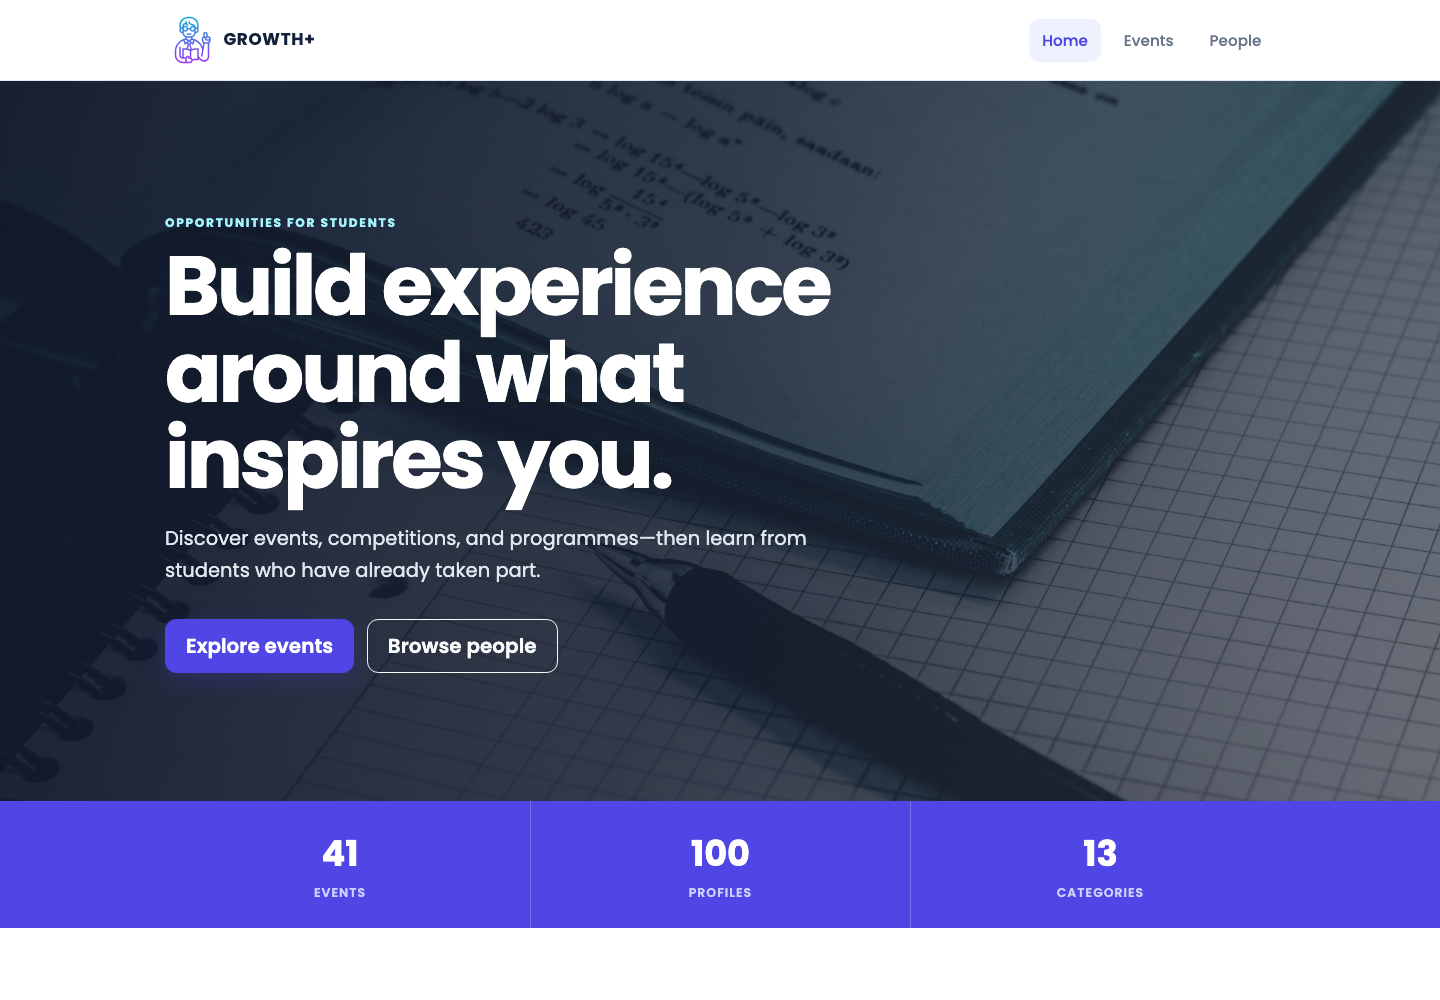
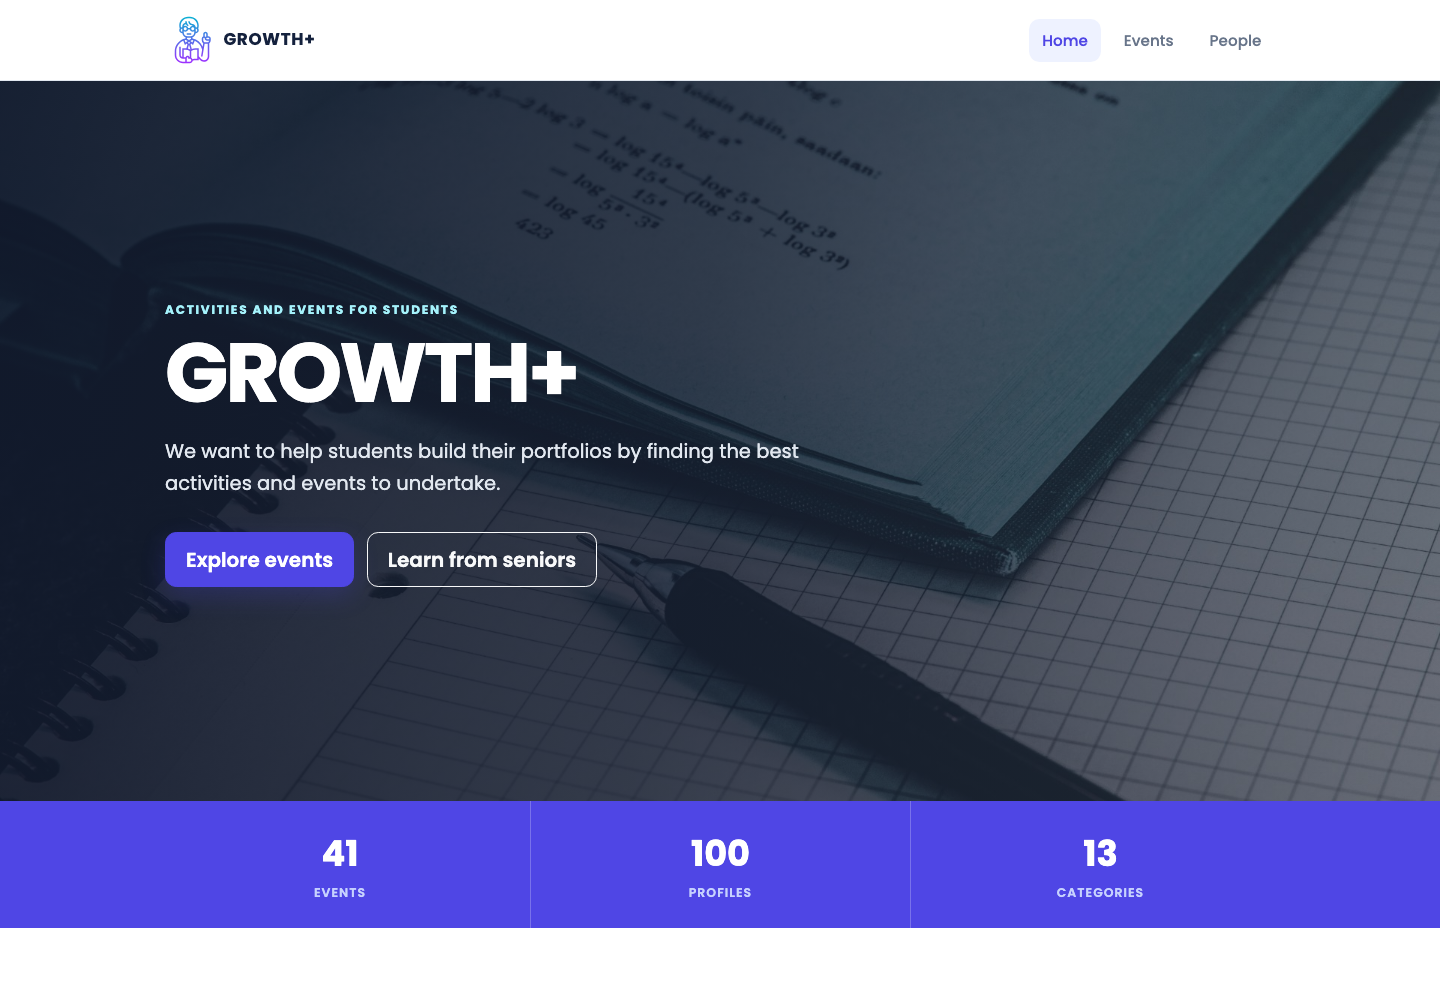
Restore the project original voice

Changed region(s): [[0.0938, 0.217, 0.5938, 0.589], [0.0938, 0.62, 0.375, 0.682]]

diff --git a/templates/home.html b/templates/home.html
@@ -9,12 +9,12 @@
 {% block body %}
 <section class="hero">
   <div class="container hero-content">
-    <span class="eyebrow">Opportunities for students</span>
-    <h1>Build experience around what inspires you.</h1>
-    <p>Discover events, competitions, and programmes—then learn from students who have already taken part.</p>
+    <span class="eyebrow">Activities and events for students</span>
+    <h1>GROWTH+</h1>
+    <p>We want to help students build their portfolios by finding the best activities and events to undertake.</p>
     <div class="hero-actions">
       <a class="btn btn-primary btn-lg" href="{{ url_for('search_events') }}">Explore events</a>
-      <a class="btn btn-outline-light btn-lg" href="{{ url_for('search_profiles') }}">Browse people</a>
+      <a class="btn btn-outline-light btn-lg" href="{{ url_for('search_profiles') }}">Learn from seniors</a>
     </div>
   </div>
 </section>
@@ -41,31 +41,30 @@
 <section class="section-space">
   <div class="container">
     <div class="section-heading text-center">
-      <span class="eyebrow">One connected platform</span>
-      <h2>Turn curiosity into your next experience.</h2>
-      <p>GROWTH+ brings opportunities and student experiences together, making it easier to explore activities that match your interests.</p>
+      <h2>An all-in-one platform</h2>
+      <p>GROWTH+ offers activities and events for youths and pre-university students. We want to help students make better-informed choices and see what their seniors have done before them.</p>
     </div>
 
     <div class="row feature-grid">
       <div class="col-md-4">
         <article class="feature-card">
           <span class="feature-number">01</span>
-          <h3>Find opportunities</h3>
-          <p>Browse academic, creative, technical, and leadership events in one searchable catalogue.</p>
+          <h3>Find events</h3>
+          <p>Browse activities and events across a wide range of interests.</p>
         </article>
       </div>
       <div class="col-md-4">
         <article class="feature-card">
           <span class="feature-number">02</span>
-          <h3>Follow your interests</h3>
-          <p>Filter by category, organiser, school, or interest to focus on the paths most relevant to you.</p>
+          <h3>Search by interest</h3>
+          <p>Filter events by category and organiser, or profiles by school and interest.</p>
         </article>
       </div>
       <div class="col-md-4">
         <article class="feature-card">
           <span class="feature-number">03</span>
-          <h3>Learn from others</h3>
-          <p>Explore connected profiles to see which experiences other students have chosen.</p>
+          <h3>Learn from seniors</h3>
+          <p>Look at other students' profiles and the events they have taken part in.</p>
         </article>
       </div>
     </div>
@@ -76,10 +75,10 @@
   <div class="container">
     <div class="row align-items-center">
       <div class="col-lg-6 mission-copy">
-        <span class="eyebrow">Our mission</span>
-        <h2>Make portfolio-building feel less daunting.</h2>
-        <p>Choosing activities for university and future job applications can be difficult. GROWTH+ helps students compare opportunities, identify experiences suited to their interests, and learn from the paths of earlier participants.</p>
-        <a class="text-link" href="{{ url_for('search_events') }}">Start exploring <span aria-hidden="true">→</span></a>
+        <h2>Our mission</h2>
+        <p>In pre-university studies, students often find it daunting to create portfolios for university or future job applications.</p>
+        <p>We want to make this process easier by helping students find activities suited to their interests. We also hope to create a platform for seniors to share their experiences and recommend valuable opportunities to newer batches.</p>
+        <a class="text-link" href="{{ url_for('search_events') }}">Explore events <span aria-hidden="true">→</span></a>
       </div>
       <div class="col-lg-6">
         <img class="mission-image" src="{{ url_for('static', filename='images/company.jpeg') }}" alt="Students collaborating around a laptop">

diff --git a/templates/search_events.html b/templates/search_events.html
@@ -9,9 +9,8 @@
 {% block body %}
 <section class="page-hero">
   <div class="container">
-    <span class="eyebrow">Find your next challenge</span>
-    <h1>Explore opportunities</h1>
-    <p>Search competitions, programmes, and events across academic, creative, and technical interests.</p>
+    <h1>Events</h1>
+    <p>Search and filter events, then select one to see its organiser, category, rating, and participants.</p>
   </div>
 </section>
 

diff --git a/templates/search_profiles.html b/templates/search_profiles.html
@@ -9,9 +9,8 @@
 {% block body %}
 <section class="page-hero">
   <div class="container">
-    <span class="eyebrow">Learn from experience</span>
-    <h1>Explore student journeys</h1>
-    <p>Search by person, school, or interest to discover the opportunities other students pursued.</p>
+    <h1>Users</h1>
+    <p>Search and filter profiles, then select a student to see their schools, interests, and events.</p>
   </div>
 </section>
 

diff --git a/templates/layout.html b/templates/layout.html
@@ -57,7 +57,7 @@
             <img src="{{ url_for('static', filename='images/logo-blank.svg') }}" width="44" height="44" alt="">
             <div>
               <strong>GROWTH+</strong>
-              <p>Discover opportunities. Learn from experience.</p>
+              <p>Helping students find activities and events.</p>
             </div>
           </div>
           <div class="col-md-5 footer-links">

diff --git a/README.md b/README.md
@@ -1,8 +1,8 @@
 # GROWTH+
 
-**Helping students discover experiences that strengthen their portfolios.**
+**Helping students find activities and events for their portfolios.**
 
-GROWTH+ is a web platform for pre-university students to find competitions, programmes, and extracurricular opportunities aligned with their interests. Students can also explore the paths taken by their peers and seniors, making it easier to identify worthwhile next steps.
+GROWTH+ is a web app for pre-university students to find competitions, programmes, and extracurricular activities. Students can also look through other profiles to see which events their peers and seniors have joined.
 
 The project was designed and built by a three-person student team during the 24-hour [iNTUition v8.0](https://intuition-v8.devpost.com/) hackathon in February 2022.
 
@@ -10,14 +10,13 @@ The project was designed and built by a three-person student team during the 24-
 
 ## What it does
 
-- Browse a catalogue of academic, creative, technical, and leadership opportunities.
+- Browse academic, creative, technical, and leadership events.
 - Search events by name or organiser and filter them by category.
 - Search student profiles by name, school, and interests.
-- Move between linked profile and event pages to explore shared experiences.
-- Use autocomplete-assisted search to find schools and events quickly.
-- Present the experience through a responsive Bootstrap interface.
+- Move between linked profiles and events.
+- Use autocomplete when searching for schools, organisers, and events.
 
-The demonstration dataset contains **41 events**, **100 student profiles**, and **13 interest categories**, providing enough variety to exercise the platform's search and discovery flows.
+The demonstration data contains **41 events**, **100 student profiles**, and **13 interest categories**.
 
 ![Event search filtered to hackathons](docs/images/growth-search.png)
 
@@ -29,7 +28,7 @@ The demonstration dataset contains **41 events**, **100 student profiles**, and 
 
 ## How it works
 
-Flask handles routing and server-side rendering, while Jinja templates assemble the interface from structured JSON data. A dedicated `JsonHandler` provides profile and event lookup and applies combinations of name, school, organiser, and interest filters. The resulting records are rendered into cross-linked pages, with lightweight JavaScript providing autocomplete interactions in the search experience.
+Flask handles the routes and renders the Jinja templates. `JsonHandler` reads the event and profile data from JSON and applies the search filters. The templates link events to their participants and profiles to their events. JavaScript provides autocomplete on the search forms.
 
 ## Technology
 
@@ -85,4 +84,4 @@ python -m unittest discover -s tests -v
 
 ## Built in 24 hours
 
-Within the hackathon window, we moved from problem definition to a working, navigable prototype: shaping the product concept, creating a connected demonstration dataset, implementing multi-field search, and building the complete web interface.
+We built GROWTH+ during the 24-hour hackathon. By the end, users could search and filter events and profiles, move between connected records, and use the site on both desktop and mobile screens.
